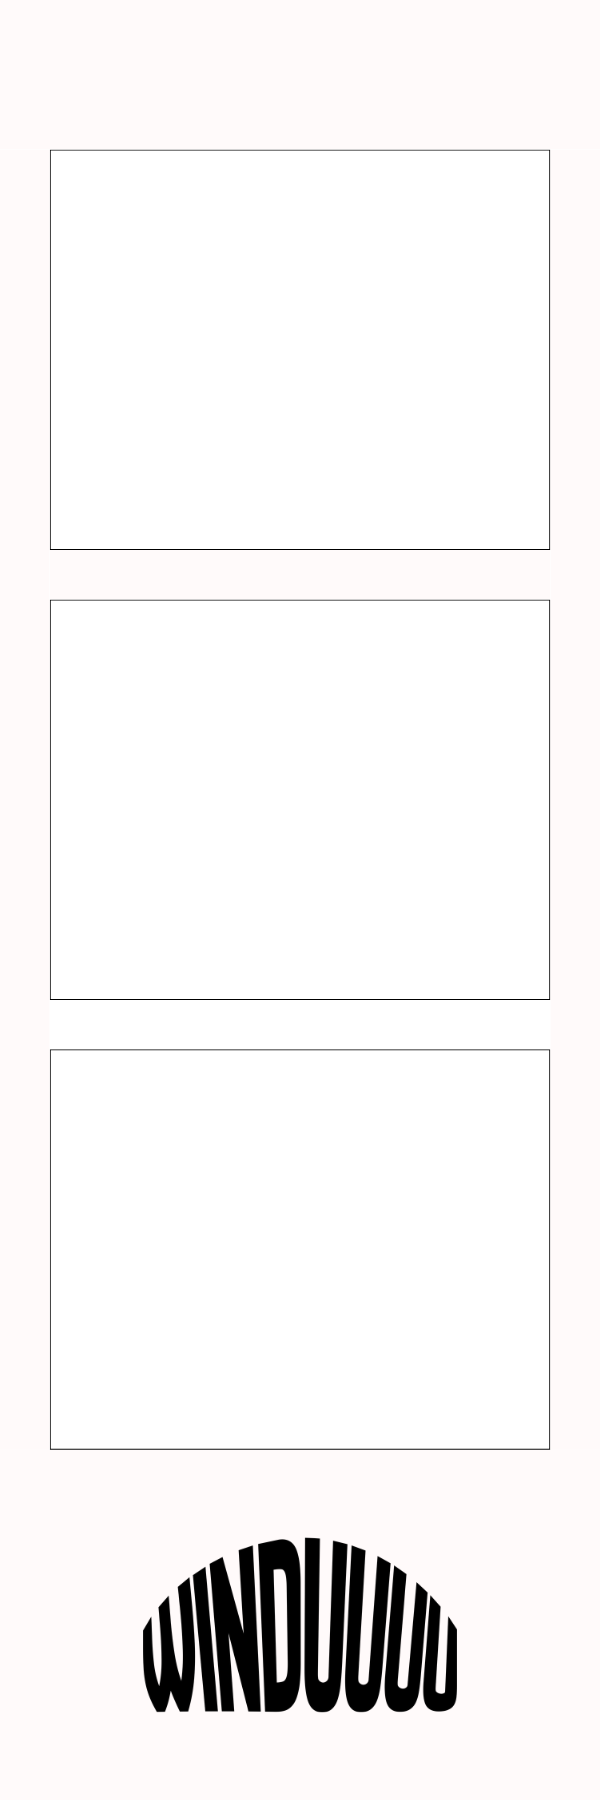
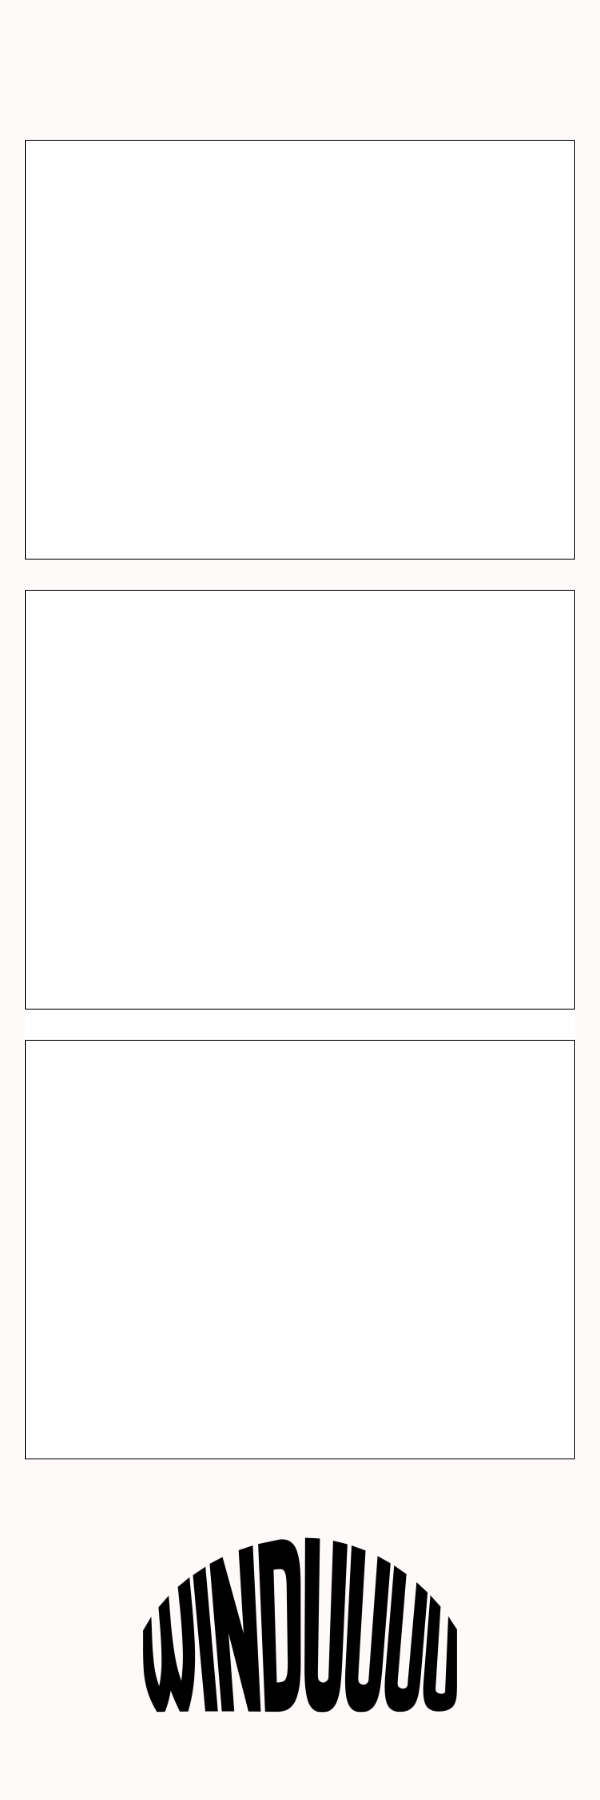
changed overlay dimensions to 800x600, added new overlay image, and added new capture image

Changed region(s): [[0.9, 0.3422, 0.93, 0.8089], [0.9, 0.0933, 0.93, 0.3111]]

diff --git a/app.js b/app.js
@@ -85,40 +85,71 @@ snapBtn.addEventListener('click', async (e) => {
 async function generateFinalLayout() {
     const finalCanvas = document.createElement('canvas');
     const ctx = finalCanvas.getContext('2d');
-    finalCanvas.width = 600; finalCanvas.height = 1800;
+    
+    // BACK TO SINGLE STRIP: 600x1800
+    finalCanvas.width = 600;
+    finalCanvas.height = 1800;
 
     const overlay = new Image();
-    overlay.src = 'assets/overlay.png';
+    overlay.src = 'assets/overlay.png'; 
+
+    // --- YOUR UPDATED MEASUREMENTS ---
+    const slotW = 550;      // Image Width
+    const slotH = 420;      // Image Height
+    const topMargin = 140;  // Start point from top
+    const sideMargin = 25;  // 25px Left + 550px Image + 25px Right = 600px Total
+    const gap = 30;         // Vertical space between images
+    // -----------------------------
 
     overlay.onload = async () => {
+        // Clear the canvas before drawing
+        ctx.clearRect(0, 0, finalCanvas.width, finalCanvas.height);
+
         for (let i = 0; i < capturedPhotos.length; i++) {
             const img = new Image();
             img.src = capturedPhotos[i];
             await new Promise(r => img.onload = r);
 
-            const targetRatio = 500 / 400;
+            // Auto-Crop for 550x420 Landscape Ratio
+            const targetRatio = slotW / slotH;
             let sWidth, sHeight, sx, sy;
+            
             if (img.width / img.height > targetRatio) {
-                sHeight = img.height; sWidth = img.height * targetRatio;
-                sx = (img.width - sWidth) / 2; sy = 0;
+                sHeight = img.height;
+                sWidth = img.height * targetRatio;
+                sx = (img.width - sWidth) / 2;
+                sy = 0;
             } else {
-                sWidth = img.width; sHeight = img.width / targetRatio;
-                sx = 0; sy = (img.height - sHeight) / 2;
+                sWidth = img.width;
+                sHeight = img.width / targetRatio;
+                sx = 0;
+                sy = (img.height - sHeight) / 2;
             }
 
-            const destY = 150 + (i * (400 + 50)); 
-            ctx.drawImage(img, sx, sy, sWidth, sHeight, 50, destY, 500, 400);
+            // Vertical Placement: Start + (Index * (Height + Gap))
+            const destY = topMargin + (i * (slotH + gap)); 
+            
+            ctx.drawImage(
+                img, 
+                sx, sy, sWidth, sHeight,        // Source (Crop)
+                sideMargin, destY, slotW, slotH // Destination (Position)
+            );
         }
 
+        // Draw the Canva overlay on top of everything
         ctx.drawImage(overlay, 0, 0, 600, 1800);
+
         const finalData = finalCanvas.toDataURL('image/png');
         resultImg.src = finalData;
 
+        // Triggers the auto-download
         triggerAutoSave(finalData);
+
+        // Hide Camera, Show Result
         mainUI.style.display = 'none';
         resultContainer.style.display = 'flex';
     };
-} 
+}
 
 // 4. Build Final 4x6 Layout (2 Strips Side by Side)
 /*async function generateFinalLayout() {
